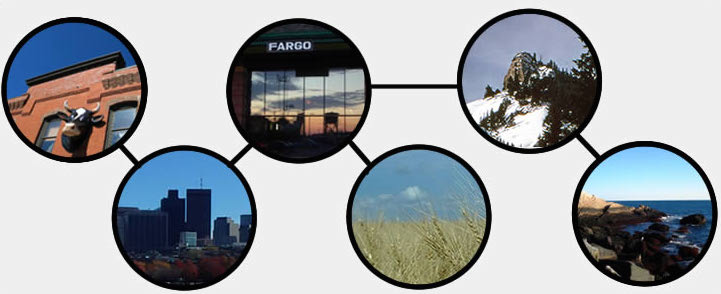
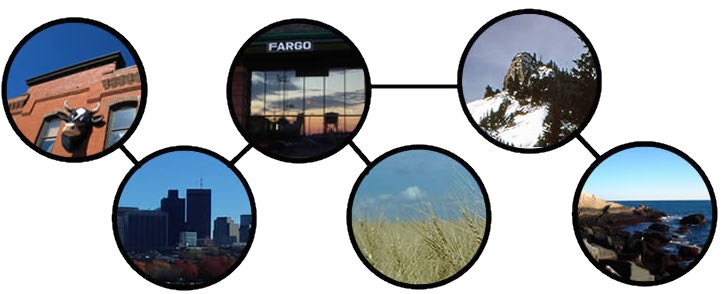
Adding map background on homepage

diff --git a/Gruntfile.js b/Gruntfile.js
@@ -63,20 +63,20 @@ module.exports = function (grunt) {
             },
             build: {
                 files: {
-                    '<%= yeoman.build %>/css/styles-pre.css': '<%= yeoman.src %>/css/styles.scss'
+                    '<%= yeoman.build %>/css/styles.css': '<%= yeoman.src %>/css/styles.scss'
                 }
             }
         },
-        autoprefixer: {
-          dist: {
-            options: {
-              browsers: ['last 2 versions', '> 1%']
-            },
-            files: {
-              '<%= yeoman.build %>/css/styles.css': '<%= yeoman.build %>/css/styles-pre.css'
-            }
-          }
-        },
+//        autoprefixer: {
+//          dist: {
+//            options: {
+//              browsers: ['last 2 versions', '> 1%']
+//            },
+//            files: {
+//              '<%= yeoman.build %>/css/styles.css': '<%= yeoman.build %>/css/styles-pre.css'
+//            }
+//          }
+//        },
         concat: {
             options: {
                 // define a string to put between each file in the concatenated output
@@ -224,9 +224,8 @@ module.exports = function (grunt) {
     });
 
     grunt.registerTask('html', ['assemble', 'htmlmin', 'copy']);
-    grunt.registerTask('js', ['jshint', 'concat', 'uglify']);
-    grunt.registerTask('style', ['sass', 'autoprefixer', 'cssmin']);
+    grunt.registerTask('jscss', ['jshint','sass', 'concat', 'uglify', 'cssmin']);
     grunt.registerTask('serve', ['connect', 'watch']);
-    grunt.registerTask('default', ['js', 'style', 'imagemin', 'clean', 'html']);
+    grunt.registerTask('default', ['jscss', 'imagemin', 'clean', 'html']);
 
 };

diff --git a/src/css/_extend.scss b/src/css/_extend.scss
@@ -16,3 +16,86 @@
     height: auto;    
 }
 
+.background-image {
+	position: relative;
+	top: 0;
+	left: 0;
+	right: 0;
+	background-size: cover !important;
+	background-position: 50%;
+	height: 100%;
+	z-index: -1; /* So dropdown menu in nav doesn't get covered  */
+/*	background-attachment: fixed !important;*/
+}
+
+.background-image-darkened {
+	content: " ";
+	display: block;
+	position: absolute;
+	top: 0;
+	left: 0;
+	width: 100%;
+	height: 100%;
+	background: rgba(0,0,0,0.65);
+	height:100%;
+	z-index: -1; /* So dropdown menu in nav doesn't get covered  */
+}
+
+.background-image-lightened{
+	content: " ";
+	display: block;
+	position: absolute;
+	top: 0;
+	left: 0;
+	width: 100%;
+	height: 100%;
+	background: rgba(250,250,250,0.5);
+	height:100%;
+	z-index: -1; /* So dropdown menu in nav doesn't get covered  */
+}
+
+.background-image-gray{
+	content: " ";
+	display: block;
+	position: absolute;
+	top: 0;
+	left: 0;
+	width: 100%;
+	height: 100%;
+	background: rgba(0,0,0,0.2);
+	height:100%;
+	z-index: -1; /* So dropdown menu in nav doesn't get covered  */
+}
+
+.background-image-gray{
+	content: " ";
+	display: block;
+	position: absolute;
+	top: 0;
+	left: 0;
+	width: 100%;
+	height: 100%;
+	background: rgba(0,0,0,0.3);
+	height:100%;
+	z-index: -1; /* So dropdown menu in nav doesn't get covered  */
+}
+
+%full-width-content-holder {
+  position: relative;
+  display: inline-block;
+  width: 100%;
+  &:before, &:after {
+    content: '';
+    position: absolute;
+    top: 0;
+    bottom: 0;
+    width: 999px;
+  }
+  &:after {
+    right: 100%;
+  }
+  &:before {
+    left: 100%;
+  }
+}
+

diff --git a/src/css/_layout.scss b/src/css/_layout.scss
@@ -1,3 +1,4 @@
+
 body {
     padding-bottom: 2em;
 }
@@ -9,6 +10,13 @@ body {
     color: #fff;
     text-align: center;
     padding: 1em 1em 1.5em 1em;
+    background-image: url('../img/bgmap-blur.jpg');
+    @extend .background-image !optional;
+      border-bottom: 1px solid #666;
+}
+
+.hero:before {
+	@extend .background-image-lightened;
 }
 
 .hero-boxes {

diff --git a/src/index.html b/src/index.html
@@ -63,7 +63,7 @@
                 <div class="hero">
     <section>
              <figure>
-             <img src="img/placeblogging-image.jpg" alt="Place Blogging Cover Image" />
+             <img src="img/placeblogging-image.png" alt="Place Blogging Cover Image" />
 
              </figure>
 

diff --git a/src/templates/pages/index.md b/src/templates/pages/index.md
@@ -6,7 +6,7 @@ layout: src/templates/layouts/index.hbs
 <div class="hero">
     <section>
              <figure>
-             <img src="img/placeblogging-image.jpg" alt="Place Blogging Cover Image" />
+             <img src="img/placeblogging-image.png" alt="Place Blogging Cover Image" />
        
              </figure>
              
